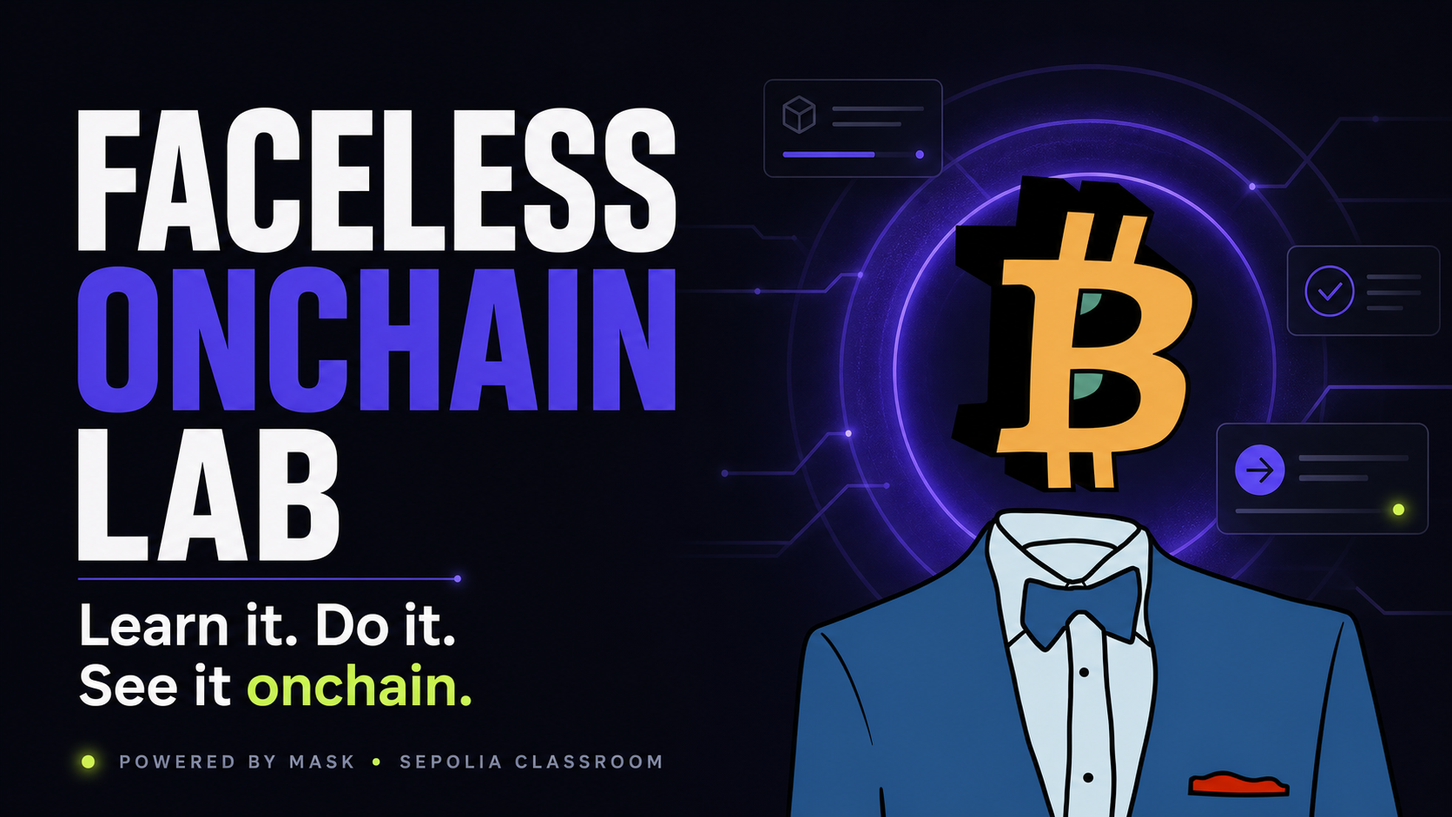
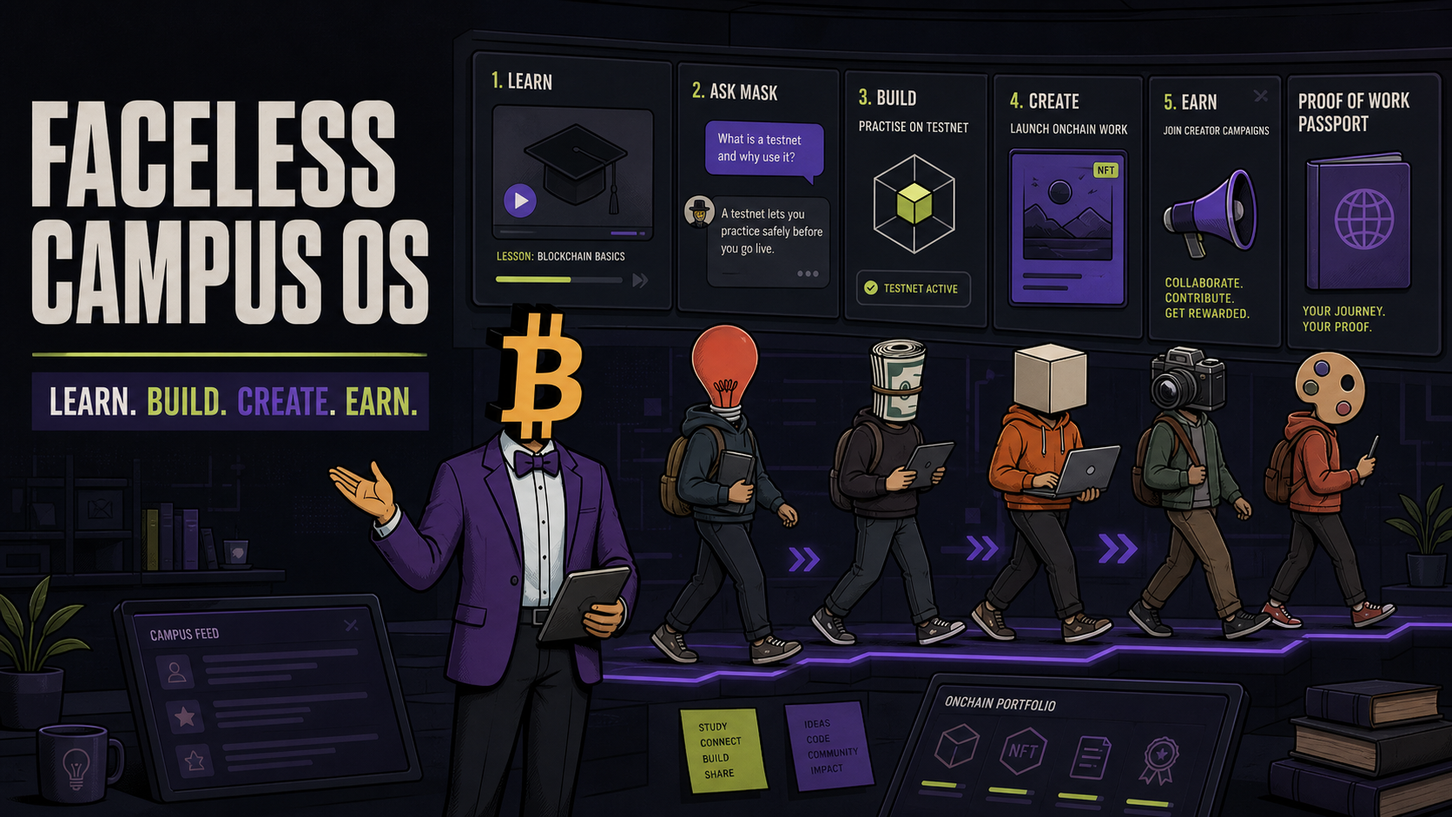
Integrate lessons Mask campaigns and passport

diff --git a/app/OnchainLab.tsx b/app/OnchainLab.tsx
@@ -2,7 +2,7 @@
 
 import { ChangeEvent, useMemo, useState } from "react";
 
-type Tab = "home" | "learn" | "wallet" | "create" | "launchpad" | "drops" | "admin";
+type Tab = "home" | "learn" | "mask" | "wallet" | "create" | "campaigns" | "launchpad" | "passport" | "drops" | "admin";
 
 type Drop = {
   id: number;
@@ -15,20 +15,38 @@ type Drop = {
 
 const navItems: { id: Tab; label: string; mark: string }[] = [
   { id: "home", label: "Home", mark: "⌂" },
-  { id: "learn", label: "Learn with Mask", mark: "M" },
-  { id: "wallet", label: "My wallet", mark: "◇" },
-  { id: "create", label: "Creator studio", mark: "+" },
+  { id: "learn", label: "Learn", mark: "▶" },
+  { id: "mask", label: "Ask Mask", mark: "M" },
+  { id: "create", label: "Build", mark: "+" },
+  { id: "campaigns", label: "Campaigns", mark: "◎" },
   { id: "launchpad", label: "Launchpad", mark: "↗" },
-  { id: "drops", label: "Partner drops", mark: "✦" },
+  { id: "passport", label: "My passport", mark: "◇" },
   { id: "admin", label: "Educator view", mark: "▦" },
 ];
 
-const quests = [
-  { title: "Meet Ethereum", copy: "Understand the network before touching a wallet.", time: "06 min", state: "complete" },
-  { title: "Your first transaction", copy: "Send test ETH and read every part of the receipt.", time: "12 min", state: "active" },
-  { title: "Claim a Faceless head", copy: "Mint your first classroom collectible on Sepolia.", time: "08 min", state: "open" },
-  { title: "Create a team token", copy: "Choose a name, supply and purpose for a test token.", time: "15 min", state: "locked" },
-  { title: "Launch a mini collection", copy: "Turn original student art into a three-piece collection.", time: "18 min", state: "locked" },
+const lessons = [
+  { id: 1, title: "Meet Ethereum", copy: "A shared computer for money, ownership and applications.", time: "0:58", unit: "FOUNDATIONS", state: "complete", action: "Explore the network", video: "https://zwmraqkjvpqnafdfgkiz.supabase.co/storage/v1/object/public/assets/bc1b33b9-875b-4fb0-9c83-9664a979f699-meet-ethereum-v2-faceless-approved.mp4" },
+  { id: 2, title: "Smart contracts", copy: "Rules that execute when their conditions are met.", time: "0:58", unit: "FOUNDATIONS", state: "active", action: "Read a contract", video: "https://zwmraqkjvpqnafdfgkiz.supabase.co/storage/v1/object/public/assets/3df30db4-89ad-4dd7-b34e-6ee44b79e923-ethereum-smart-contracts-v5-faceless-approved.mp4" },
+  { id: 3, title: "Tokenising a watch", copy: "How rules and ownership shares can move onchain.", time: "1:01", unit: "TOKENISATION", state: "open", action: "Create asset shares", video: "https://zwmraqkjvpqnafdfgkiz.supabase.co/storage/v1/object/public/assets/8cc08734-a79f-4930-b5d3-cb83c38125a1-ethereum-rwa-watch-v6-faceless-approved.mp4" },
+  { id: 4, title: "Tokenising a building", copy: "A hypothetical look at rights, rent and smaller shares.", time: "1:20", unit: "TOKENISATION", state: "open", action: "Model a building", video: "https://zwmraqkjvpqnafdfgkiz.supabase.co/storage/v1/object/public/assets/e37d1f22-ddaa-460f-910e-e87193a6b4b7-ethereum-rwa-building-v2-faceless-approved.mp4" },
+  { id: 5, title: "Transaction confirmation", copy: "Follow an Ethereum payment from wallet to confirmation.", time: "1:04", unit: "NETWORK", state: "open", action: "Send test ETH", video: "https://zwmraqkjvpqnafdfgkiz.supabase.co/storage/v1/object/public/assets/5554e138-d284-4fa4-8330-4a1aef84533a-ethereum-tx-confirmation-v1-faceless-approved.mp4" },
+  { id: 6, title: "Validators and Proof of Stake", copy: "Who builds blocks, who checks them and why honesty matters.", time: "0:43", unit: "NETWORK", state: "open", action: "Inspect a validator", video: "https://zwmraqkjvpqnafdfgkiz.supabase.co/storage/v1/object/public/assets/2cb946d3-37b0-4d7b-a6fa-4e0d292a629c-ethereum-validators-pos-v1-faceless-approved.mp4" },
+  { id: 7, title: "Ethereum gas", copy: "Why network work has a fee and why that fee changes.", time: "0:45", unit: "NETWORK", state: "open", action: "Compare gas", video: "https://zwmraqkjvpqnafdfgkiz.supabase.co/storage/v1/object/public/assets/eb6e5f6a-24b4-41d7-8eec-35a357810e96-ethereum-gas-v3-faceless-approved.mp4" },
+  { id: 8, title: "Ethereum supply", copy: "Validator rewards add ETH while base-fee burning removes it.", time: "0:49", unit: "NETWORK", state: "open", action: "View supply", video: "https://zwmraqkjvpqnafdfgkiz.supabase.co/storage/v1/object/public/assets/0edb1abc-9984-4d8e-8c51-bb9be3f11281-ethereum-supply-v2-faceless-approved.mp4" },
+  { id: 9, title: "What is an NFT?", copy: "A unique token that can act as a digital certificate.", time: "0:54", unit: "NFTS", state: "open", action: "Claim your head", video: "https://zwmraqkjvpqnafdfgkiz.supabase.co/storage/v1/object/public/assets/314cb8a5-e80f-483c-88df-b539da820885-ethereum-nft-basics-v3-faceless-approved.mp4" },
+  { id: 10, title: "Art and provenance", copy: "See the issuer, current owner and transfer history.", time: "0:52", unit: "NFTS", state: "open", action: "Mint original art", video: "https://zwmraqkjvpqnafdfgkiz.supabase.co/storage/v1/object/public/assets/caf33a70-a613-44ec-b0c1-c2e8ef8b7e9f-ethereum-nft-art-provenance-v2-faceless-approved.mp4" },
+  { id: 11, title: "A car's digital certificate", copy: "Link official records to a vehicle's ownership history.", time: "0:54", unit: "NFTS", state: "open", action: "View certificate", video: "https://zwmraqkjvpqnafdfgkiz.supabase.co/storage/v1/object/public/assets/8ab52189-adbe-4a34-9373-6a81de53169a-ethereum-nft-car-certificate-v4-faceless-approved.mp4" },
+  { id: 12, title: "Product authenticity", copy: "How official issuers and secure tags can help prove origin.", time: "0:58", unit: "NFTS", state: "open", action: "Verify a product", video: "https://zwmraqkjvpqnafdfgkiz.supabase.co/storage/v1/object/public/assets/48ed2355-cce5-4836-a3d0-471f5551361d-ethereum-nft-product-authenticity-v1-faceless-approved.mp4" },
+  { id: 13, title: "Borrow without selling ETH", copy: "Understand collateral, interest and liquidation risk.", time: "0:59", unit: "DEFI", state: "open", action: "Simulate a loan", video: "https://zwmraqkjvpqnafdfgkiz.supabase.co/storage/v1/object/public/assets/3ff1e0a9-a6d2-4699-80d3-c7005c265227-ethereum-defi-borrow-without-selling-v1-faceless-approved.mp4" },
+  { id: 14, title: "Bank vs smart contract", copy: "Compare traditional finance routes with published DeFi rules.", time: "1:00", unit: "DEFI", state: "open", action: "Compare the routes", video: "https://zwmraqkjvpqnafdfgkiz.supabase.co/storage/v1/object/public/assets/6cc53850-b5d3-4950-83a7-c0801475df67-ethereum-defi-bank-vs-contract-v1-faceless-approved.mp4" },
+  { id: 15, title: "Token swaps and liquidity pools", copy: "How shared pools let a wallet exchange one token for another.", time: "1:06", unit: "DEFI", state: "open", action: "Try a test swap", video: "https://zwmraqkjvpqnafdfgkiz.supabase.co/storage/v1/object/public/assets/9913f480-3109-4b59-a1c1-e777308856f9-ethereum-defi-token-swap-v1-faceless-approved.mp4" },
+];
+
+const campaigns = [
+  { id: 1, brand: "Sticksy", title: "Campus café experience", type: "Creator", category: "Food & Drink", platform: "Instagram", reward: "₹500", places: "18 spots", tone: "coral", brief: "Visit, film the experience and publish an original Reel." },
+  { id: 2, brand: "RKS Builders", title: "Property walkthrough", type: "Faceless Creator", category: "Real Estate", platform: "Instagram", reward: "₹750", places: "8 spots", tone: "blue", brief: "Create a voiceover walkthrough using approved property footage." },
+  { id: 3, brand: "Web3 Partner", title: "Explain one wallet feature", type: "Clipper", category: "Crypto", platform: "YouTube", reward: "$12", places: "24 spots", tone: "violet", brief: "Turn the supplied session into one accurate vertical explainer." },
+  { id: 4, brand: "Campus App", title: "Bring your first five users", type: "User Acquisition", category: "Technology", platform: "Referral", reward: "₹300", places: "40 spots", tone: "green", brief: "Share your tracked link and help five genuine students onboard." },
 ];
 
 const initialDrops: Drop[] = [
@@ -64,6 +82,10 @@ export default function OnchainLab() {
   const [claimedDrops, setClaimedDrops] = useState<number[]>([]);
   const [created, setCreated] = useState(false);
   const [artPreview, setArtPreview] = useState<string | null>(null);
+  const [selectedLesson, setSelectedLesson] = useState(lessons[1]);
+  const [maskQuestion, setMaskQuestion] = useState("");
+  const [maskAnswer, setMaskAnswer] = useState("Ask me anything about the lesson. I’ll use the approved Faceless material and point you to the next activity.");
+  const [claimedCampaigns, setClaimedCampaigns] = useState<number[]>([]);
 
   const wallet = "0x71F4...9A2C";
   const completed = 2 + (headClaimed ? 1 : 0);
@@ -116,12 +138,37 @@ export default function OnchainLab() {
     notify("Draft collection created in the Sepolia sandbox");
   }
 
+  function openLesson(lesson: typeof lessons[number]) {
+    setSelectedLesson(lesson);
+    setActive("learn");
+    window.scrollTo({ top: 0, behavior: "smooth" });
+  }
+
+  function askMask(event: React.FormEvent<HTMLFormElement>) {
+    event.preventDefault();
+    const question = maskQuestion.trim();
+    if (!question) return;
+    const lower = question.toLowerCase();
+    let answer = `In “${selectedLesson.title}”, the key idea is: ${selectedLesson.copy} Your safest next step is the ${selectedLesson.action.toLowerCase()} classroom activity on Sepolia.`;
+    if (lower.includes("gas")) answer = "Gas is the network fee paid for Ethereum to process work. Simple transfers generally use less gas than complex smart-contract actions, and the price rises when demand for block space is high. Open Lesson 7 to see the approved explainer.";
+    if (lower.includes("nft")) answer = "An NFT is a unique token that can act as a public digital certificate. It can show the issuer, current owner and transfer history—but it does not stop an image from being copied. Open Lesson 9, then claim your testnet Faceless Head.";
+    if (lower.includes("real") || lower.includes("money") || lower.includes("risk")) answer = "Everything in this classroom flow is marked Sepolia testnet and has no real monetary value. Mask can explain and guide, but you approve every wallet action yourself.";
+    setMaskAnswer(answer);
+    setMaskQuestion("");
+  }
+
+  function claimCampaign(id: number) {
+    if (claimedCampaigns.includes(id)) return notify("This mission is already in your workspace");
+    setClaimedCampaigns((current) => [...current, id]);
+    notify("Campaign claimed — Mask prepared your brief checklist");
+  }
+
   return (
     <main className="app-shell">
       <aside className="sidebar">
         <button className="brand" onClick={() => setActive("home")} aria-label="Faceless Onchain Lab home">
           <span className="brand-glyph"><MaskOrb compact /></span>
-          <span><strong>FACELESS</strong><small>ONCHAIN LAB</small></span>
+          <span><strong>FACELESS</strong><small>CAMPUS OS</small></span>
         </button>
 
         <nav className="main-nav" aria-label="Primary navigation">
@@ -134,9 +181,9 @@ export default function OnchainLab() {
 
         <div className="sidebar-lab-card">
           <div className="tiny-label">CURRENT LAB</div>
-          <strong>Ethereum · Session 01</strong>
+          <strong>Ethereum · 15 lessons</strong>
           <div className="mini-progress"><i style={{ width: `${progress}%` }} /></div>
-          <span>{completed} of 7 quests complete</span>
+          <span>{completed} learning milestones complete</span>
         </div>
 
         <div className="sidebar-profile">
@@ -198,6 +245,11 @@ export default function OnchainLab() {
                 <button onClick={() => setActive("learn")}>Start →</button>
               </section>
 
+              <section className="home-mission card">
+                <div className="section-head"><span><b>LIVE CAMPAIGN</b><small>Matched to your creator mode</small></span><em>₹500</em></div>
+                <div><span className="mission-logo">ST</span><span><b>Campus café experience</b><small>Sticksy · Creator · Instagram</small></span><button onClick={() => setActive("campaigns")}>View mission →</button></div>
+              </section>
+
               <section className="activity-card card">
                 <div className="section-head"><span><b>RECENT ONCHAIN ACTIVITY</b><small>Readable by anyone</small></span><button onClick={() => setActive("wallet")}>View all</button></div>
                 <div className="activity-row"><span className="activity-icon purple">✦</span><span><b>Ethereum Lab Pass</b><small>Minted · 7 min ago</small></span><code>0x8f...21c</code></div>
@@ -216,21 +268,46 @@ export default function OnchainLab() {
           {active === "learn" && (
             <div className="page-stack">
               <section className="page-intro learn-intro">
-                <div><span className="eyebrow">GUIDED BY MASK</span><h2>Ethereum foundations</h2><p>Watch one short lesson, perform one action and inspect the proof.</p></div>
-                <div className="lesson-orb"><MaskOrb compact /><span>Mask online<small>Classroom mode</small></span></div>
+                <div><span className="eyebrow">15 APPROVED VIDEO EXPLAINERS</span><h2>Ethereum foundations</h2><p>Watch a concept, ask Mask about it, then complete the matching activity.</p></div>
+                <button className="lesson-orb" onClick={() => setActive("mask")}><MaskOrb compact /><span>Ask Mask<small>Grounded in this course</small></span></button>
               </section>
-              <div className="quest-list">
-                {quests.map((quest, index) => (
-                  <article key={quest.title} className={`lesson-row ${quest.state}`}>
-                    <span className="lesson-number">{quest.state === "complete" ? "✓" : String(index + 1).padStart(2, "0")}</span>
-                    <div><small>{quest.state === "active" ? "UP NEXT" : quest.state.toUpperCase()}</small><h3>{quest.title}</h3><p>{quest.copy}</p></div>
-                    <span className="lesson-time">{quest.time}</span>
-                    {index === 1 && <button onClick={() => notify("Mask lesson opened in classroom mode")}>Begin</button>}
-                    {index === 2 && <button onClick={claimHead}>{headClaimed ? "Claimed ✓" : "Claim head"}</button>}
-                    {quest.state === "locked" && <span className="lock">LOCKED</span>}
-                  </article>
+              <section className="lesson-player card">
+                <div className="video-frame"><video key={selectedLesson.video} controls preload="metadata" src={selectedLesson.video}>Your browser does not support video playback.</video><span>APPROVED FACELESS LESSON</span></div>
+                <div className="lesson-focus">
+                  <span className="eyebrow">LESSON {String(selectedLesson.id).padStart(2, "0")} · {selectedLesson.unit}</span>
+                  <h3>{selectedLesson.title}</h3>
+                  <p>{selectedLesson.copy}</p>
+                  <div className="lesson-actions"><button className="primary" onClick={() => notify(`${selectedLesson.action} opened in guided mode`)}>{selectedLesson.action} →</button><button className="secondary" onClick={() => setActive("mask")}>Ask Mask</button></div>
+                  <small>Mask answers from the approved course and can bring you back to the exact lesson.</small>
+                </div>
+              </section>
+              <div className="course-head"><div><span className="eyebrow">FULL COURSE</span><h3>15 lessons · 4 modules</h3></div><span>2 complete</span></div>
+              <div className="lesson-library">
+                {lessons.map((lesson) => (
+                  <button key={lesson.id} className={selectedLesson.id === lesson.id ? "library-card active" : "library-card"} onClick={() => openLesson(lesson)}>
+                    <span className="library-number">{lesson.state === "complete" ? "✓" : String(lesson.id).padStart(2, "0")}</span>
+                    <span className="library-copy"><small>{lesson.unit}</small><strong>{lesson.title}</strong><em>{lesson.copy}</em></span>
+                    <span className="library-time">{lesson.time}<b>▶</b></span>
+                  </button>
                 ))}
               </div>
+            </div>
+          )}
+
+          {active === "mask" && (
+            <div className="mask-page">
+              <section className="mask-stage">
+                <div className="mask-stage-copy"><span className="eyebrow">YOUR AI CO-HOST</span><h2>Ask Mask.<br /><em>Then do it.</em></h2><p>Questions are answered from the approved Faceless curriculum, with a lesson and safe next action attached.</p></div>
+                <div className="mask-stage-orb"><div className="signal-ring ring-one" /><div className="signal-ring ring-two" /><MaskOrb /></div>
+              </section>
+              <section className="mask-chat card">
+                <div className="mask-context"><span><b>COURSE CONTEXT</b><small>Ethereum · Lesson {selectedLesson.id}</small></span><button onClick={() => setActive("learn")}>{selectedLesson.title} ↗</button></div>
+                <div className="chat-answer"><MaskOrb compact /><div><small>MASK</small><p>{maskAnswer}</p></div></div>
+                <div className="prompt-chips">{["Why does gas change?", "What makes an NFT unique?", "Is this real money?"].map((prompt) => <button key={prompt} onClick={() => setMaskQuestion(prompt)}>{prompt}</button>)}</div>
+                <form className="mask-form" onSubmit={askMask}><input value={maskQuestion} onChange={(event) => setMaskQuestion(event.target.value)} placeholder="Ask about Ethereum, this lesson or your next activity…" aria-label="Question for Mask" /><button type="submit">Ask Mask →</button></form>
+                <small className="prototype-note">Prototype response mode · Mask does not sign wallet transactions.</small>
+              </section>
+              <section className="mask-tools"><article><span>01</span><b>Understand</b><p>Explain the concept using the lesson you are watching.</p></article><article><span>02</span><b>Create</b><p>Turn the concept into a safe testnet activity.</p></article><article><span>03</span><b>Campaign</b><p>Convert a partner brief into a checklist, hook and script.</p></article></section>
             </div>
           )}
 
@@ -262,6 +339,25 @@ export default function OnchainLab() {
             </div>
           )}
 
+          {active === "campaigns" && (
+            <div className="page-stack">
+              <section className="campaign-hero">
+                <div><span className="eyebrow">FACELESSHUB · NOW INSIDE THE LAB</span><h2>Learn a skill.<br />Use it on a real mission.</h2><p>Choose how you want to participate: appear on camera, create without showing your face, clip supplied content or help acquire genuine users.</p><button className="primary" onClick={() => notify("Mask matched you with two beginner-friendly missions")}>Let Mask match me →</button></div>
+                <div className="campaign-steps"><span><b>1</b> Claim a campaign</span><span><b>2</b> Create and post</span><span><b>3</b> Get verified and paid</span></div>
+              </section>
+              <div className="campaign-toolbar"><div><button className="active">All missions</button><button>Creator</button><button>Faceless</button><button>Clipper</button><button>User acquisition</button></div><label>⌕<input placeholder="Search campaigns or brands…" aria-label="Search campaigns" /></label></div>
+              <div className="campaign-grid">
+                {campaigns.map((campaign) => <article className={`campaign-card ${campaign.tone}`} key={campaign.id}>
+                  <div className="campaign-brand"><span>{campaign.brand.slice(0, 2).toUpperCase()}</span><div><small>{campaign.category} · {campaign.platform}</small><b>{campaign.brand}</b></div><em>LIVE</em></div>
+                  <h3>{campaign.title}</h3><p>{campaign.brief}</p>
+                  <div className="campaign-tags"><span>{campaign.type}</span><span>{campaign.places}</span></div>
+                  <div className="campaign-reward"><span><small>REWARD</small><strong>{campaign.reward}</strong></span><button onClick={() => claimCampaign(campaign.id)}>{claimedCampaigns.includes(campaign.id) ? "In workspace ✓" : "View mission →"}</button></div>
+                </article>)}
+              </div>
+              <section className="campaign-mask card"><MaskOrb compact /><div><span className="eyebrow">MASK CAMPAIGN ASSIST</span><h3>Never face a confusing brief alone.</h3><p>Mask can explain the rules, suggest a hook, build a shot list and check your submission before it reaches the reviewer.</p></div><button onClick={() => setActive("mask")}>Plan with Mask →</button></section>
+            </div>
+          )}
+
           {active === "launchpad" && (
             <div className="page-stack">
               <section className="launch-hero"><div><span className="eyebrow">STUDENT LAUNCHPAD · SEPOLIA</span><h2>Collected in class.<br />Discovered everywhere.</h2><p>Original student work, launched through supervised onchain labs.</p></div><img src="/faceless-cast.png" alt="Faceless character cast" /></section>
@@ -269,6 +365,25 @@ export default function OnchainLab() {
               <div className="market-grid">
                 {marketItems.map((item) => <article className="market-card" key={item.id}><div className="market-image"><img src={item.image} alt={item.title} /><span>{item.tag}</span></div><div className="market-meta"><div><h3>{item.title}</h3><p>by {item.creator}</p></div><span><small>TEST PRICE</small><b>{item.price} Ξ</b></span></div><button onClick={() => notify(`${item.title} added to your testnet collection`)}>Collect on Sepolia</button></article>)}
                 <article className="market-card upcoming"><div><span>＋</span><h3>Your work could be here.</h3><p>Complete the Creator Studio quest to launch.</p><button onClick={() => setActive("create")}>Start creating</button></div></article>
+              </div>
+            </div>
+          )}
+
+          {active === "passport" && (
+            <div className="page-stack">
+              <section className="passport-hero">
+                <div className="passport-identity"><span className="profile-dot large">AK</span><div><span className="eyebrow">FACELESS STUDENT PASSPORT</span><h2>Aanya K.</h2><p>Creator · Builder · Cohort 04</p></div></div>
+                <div className="passport-wallet"><small>CLASSROOM IDENTITY</small><strong>{wallet}</strong><span><i /> Sepolia verified</span></div>
+              </section>
+              <div className="passport-metrics"><article><strong>02</strong><span>Lessons completed</span></article><article><strong>03</strong><span>Onchain actions</span></article><article><strong>{claimedCampaigns.length.toString().padStart(2, "0")}</strong><span>Campaigns joined</span></article><article><strong>{headClaimed ? "03" : "02"}</strong><span>Assets collected</span></article></div>
+              <div className="passport-layout">
+                <section className="card passport-timeline"><div className="section-head"><span><b>PROOF OF PROGRESS</b><small>Learning, building and creating in one record</small></span></div>{[
+                  ["Ethereum foundations", "Completed the introductory lesson and knowledge check", "LEARN"],
+                  ["First classroom wallet", "Created a Sepolia identity for supervised practice", "BUILD"],
+                  ["Ethereum Lab Pass", "Minted a testnet participation credential", "ONCHAIN"],
+                  ["Campus creator profile", "Ready for creator, clipping and acquisition missions", "CREATE"],
+                ].map((entry) => <div className="passport-event" key={entry[0]}><span>{entry[2].slice(0, 1)}</span><div><small>{entry[2]}</small><b>{entry[0]}</b><p>{entry[1]}</p></div><em>VERIFIED</em></div>)}</section>
+                <aside className="passport-side"><section className="card"><span className="eyebrow">SKILL BADGES</span><div className="badge-cloud"><span>Ethereum basics</span><span>Wallet safety</span><span>Content starter</span><span>Testnet explorer</span></div></section><section className="card passport-next"><span className="eyebrow">NEXT MILESTONE</span><h3>Publish your first proof of work.</h3><p>Complete one campaign or launch one original artwork.</p><button onClick={() => setActive("campaigns")}>Find a campaign →</button></section><button className="wallet-link" onClick={() => setActive("wallet")}>Open classroom wallet <span>→</span></button></aside>
               </div>
             </div>
           )}
@@ -296,7 +411,7 @@ export default function OnchainLab() {
         <div className="onboarding-overlay">
           <div className="onboarding-card">
             <div className="onboarding-art"><div className="portal-ring one" /><div className="portal-ring two" /><MaskOrb /><span>SEPOLIA<br />CLASSROOM<br />ACCESS</span></div>
-            <div className="onboarding-copy"><span className="eyebrow">FACELESS ONCHAIN LAB</span><h2>Your first wallet.<br />Your first onchain action.</h2><p>Enter the student demo to see how Google onboarding will create a private classroom profile and a user-controlled testnet wallet.</p><button className="google-button" onClick={enterLab} disabled={loading}><span>G</span>{loading ? "Creating your classroom wallet…" : "Continue with Google"}</button><button className="demo-link" onClick={() => setOnboarded(true)}>Explore without signing in</button><small>Prototype only · No real Google account or blockchain wallet is created yet.</small></div>
+            <div className="onboarding-copy"><span className="eyebrow">FACELESS CAMPUS OS</span><h2>Learn. Build.<br />Create. Earn.</h2><p>One student profile for lessons, Mask guidance, safe testnet practice, creator campaigns and your proof-of-work passport.</p><button className="google-button" onClick={enterLab} disabled={loading}><span>G</span>{loading ? "Preparing your student profile…" : "Continue with Google"}</button><button className="demo-link" onClick={() => setOnboarded(true)}>Explore the student demo</button><small>Prototype only · Google sign-in, wallets, campaign rewards and onchain actions are simulated.</small></div>
           </div>
         </div>
       )}

diff --git a/app/globals.css b/app/globals.css
@@ -161,12 +161,24 @@ button:focus-visible, input:focus-visible, textarea:focus-visible { outline: 3px
 @keyframes toast-in { from { transform: translateY(8px); opacity: 0; } }
 .mobile-nav { display: none; }
 
+.home-mission { padding: 20px; }.home-mission .section-head em { color: var(--violet); font-size: 19px; font-style: normal; font-weight: 900; }.home-mission > div:last-child { display: grid; grid-template-columns: 38px 1fr auto; gap: 11px; align-items: center; margin-top: 18px; }.mission-logo { width: 38px; height: 38px; display: grid; place-items: center; border-radius: 10px; background: #ffe5dc; color: #bd4b2e; font-size: 9px; font-weight: 900; }.home-mission b, .home-mission small { display: block; }.home-mission b { font-size: 10px; }.home-mission small { margin-top: 4px; color: var(--muted); font-size: 8px; }.home-mission button { height: 34px; padding: 0 12px; border: 0; border-radius: 8px; background: var(--ink); color: white; font-size: 8px; font-weight: 800; }
+
+.lesson-orb { border: 0; text-align: left; cursor: pointer; }.lesson-player { display: grid; grid-template-columns: minmax(0, 1.45fr) minmax(280px, .75fr); overflow: hidden; }.video-frame { position: relative; min-height: 360px; display: grid; place-items: center; background: #11121c; }.video-frame video { width: 100%; height: 100%; min-height: 360px; object-fit: contain; background: #0d0e16; }.video-frame > span { position: absolute; top: 14px; left: 14px; padding: 7px 9px; border-radius: 20px; background: rgba(17,18,28,.78); color: white; font-size: 7px; font-weight: 900; letter-spacing: .12em; backdrop-filter: blur(8px); }.lesson-focus { display: flex; flex-direction: column; justify-content: center; padding: 32px; }.lesson-focus h3 { margin: 10px 0; font-size: 27px; letter-spacing: -.04em; }.lesson-focus p { margin: 0; color: var(--muted); font-size: 11px; line-height: 1.7; }.lesson-focus > small { margin-top: 19px; color: #9798a4; font-size: 8px; line-height: 1.5; }.lesson-actions { display: flex; gap: 8px; margin-top: 23px; }.lesson-actions .primary, .lesson-actions .secondary { width: auto; min-width: 116px; }.course-head { display: flex; align-items: flex-end; justify-content: space-between; margin-top: 13px; }.course-head h3 { margin: 6px 0 0; font-size: 20px; }.course-head > span { color: var(--green); font-size: 9px; font-weight: 800; }.lesson-library { display: grid; grid-template-columns: repeat(3, minmax(0, 1fr)); gap: 10px; }.library-card { min-height: 116px; display: grid; grid-template-columns: 32px 1fr auto; gap: 10px; align-items: start; padding: 15px; border: 1px solid var(--line); border-radius: 13px; background: white; color: var(--ink); text-align: left; transition: .2s ease; }.library-card:hover, .library-card.active { border-color: #b9adef; box-shadow: 0 12px 28px rgba(60,44,125,.08); transform: translateY(-1px); }.library-card.active { background: #f8f6ff; }.library-number { width: 29px; height: 29px; display: grid; place-items: center; border-radius: 8px; background: var(--violet-soft); color: var(--violet); font-size: 8px; font-weight: 900; }.library-copy small, .library-copy strong, .library-copy em { display: block; }.library-copy small { margin-bottom: 6px; color: var(--violet); font-size: 7px; font-weight: 900; letter-spacing: .1em; }.library-copy strong { font-size: 10px; }.library-copy em { margin-top: 6px; color: var(--muted); font-size: 8px; font-style: normal; line-height: 1.45; }.library-time { color: var(--muted); font-size: 8px; text-align: right; }.library-time b { display: block; margin-top: 24px; color: var(--violet); font-size: 10px; }
+
+.mask-page { display: grid; gap: 18px; }.mask-stage { min-height: 290px; display: grid; grid-template-columns: 1fr .8fr; align-items: center; overflow: hidden; border-radius: 18px; background: #171824; color: white; }.mask-stage-copy { padding: 40px; }.mask-stage-copy h2 { margin: 10px 0 14px; font-size: clamp(37px, 4vw, 56px); line-height: .96; letter-spacing: -.055em; }.mask-stage-copy h2 em { color: var(--lime); font-style: normal; }.mask-stage-copy p { max-width: 520px; margin: 0; color: #a8a9b5; font-size: 11px; line-height: 1.65; }.mask-stage-orb { position: relative; min-height: 290px; display: grid; place-items: center; }.mask-stage-orb .mask-orb { z-index: 2; }.mask-chat { max-width: 950px; width: 100%; margin: 0 auto; padding: 23px; }.mask-context { display: flex; align-items: center; justify-content: space-between; padding-bottom: 17px; border-bottom: 1px solid var(--line); }.mask-context b, .mask-context small { display: block; }.mask-context b { font-size: 9px; }.mask-context small { margin-top: 4px; color: var(--muted); font-size: 8px; }.mask-context button { border: 0; background: transparent; color: var(--violet); font-size: 9px; font-weight: 800; }.chat-answer { display: grid; grid-template-columns: 48px 1fr; gap: 14px; align-items: start; margin: 24px 0; }.chat-answer .mask-orb { transform: scale(.8); transform-origin: top left; }.chat-answer small { color: var(--violet); font-size: 8px; font-weight: 900; letter-spacing: .1em; }.chat-answer p { max-width: 720px; margin: 7px 0 0; font-size: 13px; line-height: 1.65; }.prompt-chips { display: flex; flex-wrap: wrap; gap: 7px; margin-bottom: 10px; }.prompt-chips button { padding: 8px 10px; border: 1px solid var(--line); border-radius: 20px; background: #fafafd; color: #666878; font-size: 8px; }.mask-form { display: grid; grid-template-columns: 1fr auto; gap: 8px; }.mask-form input { min-height: 48px; padding: 0 15px; border: 1px solid #d7d5df; border-radius: 10px; background: #fbfbfc; color: var(--ink); font-size: 10px; }.mask-form button { padding: 0 18px; border: 0; border-radius: 10px; background: var(--violet); color: white; font-size: 9px; font-weight: 800; }.prototype-note { display: block; margin-top: 10px; color: #a0a1aa; font-size: 7px; }.mask-tools { display: grid; grid-template-columns: repeat(3, 1fr); gap: 12px; }.mask-tools article { padding: 20px; border: 1px solid var(--line); border-radius: 13px; background: white; }.mask-tools article > span { color: var(--violet); font-size: 8px; font-weight: 900; }.mask-tools b { display: block; margin: 12px 0 7px; font-size: 12px; }.mask-tools p { margin: 0; color: var(--muted); font-size: 9px; line-height: 1.5; }
+
+.campaign-hero { min-height: 310px; display: grid; grid-template-columns: 1.15fr .85fr; gap: 40px; align-items: center; padding: 40px; border-radius: 18px; background: linear-gradient(135deg, #1a1b28, #2c2355); color: white; }.campaign-hero h2 { margin: 10px 0 14px; font-size: clamp(38px, 4vw, 55px); line-height: .98; letter-spacing: -.055em; }.campaign-hero p { max-width: 630px; margin: 0 0 23px; color: #b4b2c2; font-size: 11px; line-height: 1.65; }.campaign-steps { display: grid; gap: 9px; }.campaign-steps span { display: flex; align-items: center; gap: 12px; padding: 14px; border: 1px solid rgba(255,255,255,.11); border-radius: 11px; background: rgba(255,255,255,.055); color: #e5e3ef; font-size: 10px; font-weight: 800; }.campaign-steps b { width: 27px; height: 27px; display: grid; place-items: center; border-radius: 8px; background: var(--lime); color: #232418; font-size: 9px; }.campaign-toolbar { display: flex; justify-content: space-between; gap: 18px; align-items: center; }.campaign-toolbar > div { display: flex; flex-wrap: wrap; gap: 6px; }.campaign-toolbar button { min-height: 34px; padding: 0 12px; border: 1px solid var(--line); border-radius: 9px; background: white; color: var(--muted); font-size: 8px; font-weight: 800; }.campaign-toolbar button.active { border-color: var(--ink); background: var(--ink); color: white; }.campaign-toolbar label { min-width: 260px; height: 36px; display: flex; align-items: center; gap: 8px; padding: 0 12px; border: 1px solid var(--line); border-radius: 9px; background: white; color: var(--muted); }.campaign-toolbar input { width: 100%; border: 0; outline: 0; color: var(--ink); font-size: 9px; }.campaign-grid { display: grid; grid-template-columns: repeat(2, minmax(0, 1fr)); gap: 14px; }.campaign-card { padding: 20px; border: 1px solid var(--line); border-top: 3px solid var(--violet); border-radius: 14px; background: white; }.campaign-card.coral { border-top-color: #e46f50; }.campaign-card.blue { border-top-color: #4388d8; }.campaign-card.green { border-top-color: var(--green); }.campaign-brand { display: grid; grid-template-columns: 40px 1fr auto; gap: 10px; align-items: center; }.campaign-brand > span { width: 40px; height: 40px; display: grid; place-items: center; border-radius: 11px; background: var(--violet-soft); color: var(--violet); font-size: 9px; font-weight: 900; }.coral .campaign-brand > span { background: #fff0eb; color: #c04f34; }.blue .campaign-brand > span { background: #eaf4ff; color: #2e71b9; }.green .campaign-brand > span { background: #e7f7ef; color: var(--green); }.campaign-brand small, .campaign-brand b { display: block; }.campaign-brand small { color: var(--muted); font-size: 7px; }.campaign-brand b { margin-top: 4px; font-size: 10px; }.campaign-brand em { padding: 5px 8px; border-radius: 20px; background: #e8f6ef; color: var(--green); font-size: 7px; font-style: normal; font-weight: 900; }.campaign-card h3 { margin: 22px 0 8px; font-size: 19px; }.campaign-card > p { min-height: 42px; margin: 0; color: var(--muted); font-size: 9px; line-height: 1.55; }.campaign-tags { display: flex; gap: 6px; margin-top: 16px; }.campaign-tags span { padding: 6px 8px; border-radius: 6px; background: #f2f2f5; color: #686a78; font-size: 7px; font-weight: 800; }.campaign-reward { display: flex; align-items: flex-end; justify-content: space-between; gap: 14px; margin-top: 19px; padding-top: 16px; border-top: 1px solid var(--line); }.campaign-reward small, .campaign-reward strong { display: block; }.campaign-reward small { color: var(--muted); font-size: 7px; font-weight: 800; }.campaign-reward strong { margin-top: 4px; font-size: 20px; }.campaign-reward button { min-height: 35px; padding: 0 13px; border: 0; border-radius: 8px; background: var(--ink); color: white; font-size: 8px; font-weight: 800; }.campaign-mask { display: grid; grid-template-columns: 60px 1fr auto; gap: 18px; align-items: center; padding: 22px; }.campaign-mask h3 { margin: 5px 0; font-size: 16px; }.campaign-mask p { margin: 0; color: var(--muted); font-size: 9px; }.campaign-mask > button { min-height: 36px; padding: 0 13px; border: 0; border-radius: 8px; background: var(--violet); color: white; font-size: 8px; font-weight: 800; }
+
+.passport-hero { display: flex; justify-content: space-between; align-items: center; gap: 30px; padding: 31px; border-radius: 18px; background: #171824; color: white; }.passport-identity { display: flex; align-items: center; gap: 17px; }.profile-dot.large { width: 62px; height: 62px; font-size: 16px; }.passport-identity h2 { margin: 7px 0 4px; font-size: 30px; }.passport-identity p { margin: 0; color: #999ba8; font-size: 9px; }.passport-wallet { padding-left: 32px; border-left: 1px solid rgba(255,255,255,.12); }.passport-wallet small, .passport-wallet strong, .passport-wallet span { display: block; }.passport-wallet small { color: #898b9a; font-size: 7px; letter-spacing: .12em; }.passport-wallet strong { margin: 8px 0; font-family: var(--font-geist-mono), monospace; font-size: 15px; }.passport-wallet span { color: var(--lime); font-size: 8px; font-weight: 800; }.passport-wallet i { width: 6px; height: 6px; display: inline-block; margin-right: 5px; border-radius: 50%; background: var(--lime); }.passport-metrics { display: grid; grid-template-columns: repeat(4, 1fr); gap: 11px; }.passport-metrics article { padding: 18px; border: 1px solid var(--line); border-radius: 12px; background: white; }.passport-metrics strong, .passport-metrics span { display: block; }.passport-metrics strong { font-size: 25px; }.passport-metrics span { margin-top: 5px; color: var(--muted); font-size: 8px; }.passport-layout { display: grid; grid-template-columns: 1.3fr .7fr; gap: 15px; }.passport-timeline { padding: 20px; }.passport-event { display: grid; grid-template-columns: 34px 1fr auto; gap: 12px; align-items: center; padding: 17px 2px; border-top: 1px solid var(--line); }.passport-event:first-of-type { margin-top: 14px; }.passport-event > span { width: 31px; height: 31px; display: grid; place-items: center; border-radius: 9px; background: var(--violet-soft); color: var(--violet); font-size: 9px; font-weight: 900; }.passport-event small, .passport-event b { display: block; }.passport-event small { color: var(--violet); font-size: 7px; font-weight: 900; letter-spacing: .1em; }.passport-event b { margin-top: 4px; font-size: 10px; }.passport-event p { margin: 4px 0 0; color: var(--muted); font-size: 8px; }.passport-event em { color: var(--green); font-size: 7px; font-style: normal; font-weight: 900; }.passport-side { display: grid; gap: 12px; align-content: start; }.passport-side .card { padding: 20px; }.badge-cloud { display: flex; flex-wrap: wrap; gap: 7px; margin-top: 16px; }.badge-cloud span { padding: 8px 9px; border-radius: 8px; background: var(--violet-soft); color: var(--violet-dark); font-size: 8px; font-weight: 800; }.passport-next { background: #f0edff; }.passport-next h3 { margin: 10px 0 7px; font-size: 18px; }.passport-next p { margin: 0 0 17px; color: var(--muted); font-size: 9px; line-height: 1.5; }.passport-next button { border: 0; background: transparent; color: var(--violet); font-size: 9px; font-weight: 900; }.wallet-link { min-height: 47px; display: flex; align-items: center; justify-content: space-between; padding: 0 16px; border: 1px solid var(--line); border-radius: 11px; background: white; color: var(--ink); font-size: 9px; font-weight: 800; }
+
 @media (max-width: 1100px) {
   .sidebar { width: 210px; }.workspace { width: calc(100% - 210px); margin-left: 210px; }.dashboard-grid { grid-template-columns: 1fr; }.hero-panel, .launch-strip { grid-column: auto; }.mini-market { grid-template-columns: 1fr; }.market-grid { grid-template-columns: repeat(2, 1fr); }.drop-grid { grid-template-columns: repeat(2, 1fr); }.creator-layout { grid-template-columns: 1fr; padding: 10px 0; }.creator-copy { position: static; }.metric-grid { grid-template-columns: repeat(2, 1fr); }
+  .lesson-library { grid-template-columns: repeat(2, minmax(0, 1fr)); }.lesson-player { grid-template-columns: 1fr; }.campaign-hero { grid-template-columns: 1fr; }.passport-layout { grid-template-columns: 1fr; }
 }
 
 @media (max-width: 760px) {
   .sidebar { display: none; }.workspace { width: 100%; margin: 0; }.topbar { height: 67px; padding: 0 16px; }.topbar h1 { font-size: 12px; }.mobile-brand { display: block; margin-bottom: 3px; color: var(--violet); font-size: 7px; font-weight: 900; letter-spacing: .15em; }.network-pill { display: none; }.wallet-pill { height: 32px; padding: 0 9px; font-size: 8px; }.content-area { padding: 18px 14px 90px; }.hero-panel { grid-template-columns: 1fr; }.hero-copy { padding: 32px 25px; }.hero-copy h2 { font-size: 39px; }.hero-visual { min-height: 250px; }.speech-card { right: 15px; bottom: 15px; }.quest-card { grid-template-columns: 47px 1fr; }.quest-card button { grid-column: 2; width: fit-content; }.page-intro, .admin-banner, .wallet-hero { align-items: flex-start; flex-direction: column; }.lesson-row { grid-template-columns: 43px 1fr auto; }.lesson-time { display: none; }.lesson-row > button, .lock { grid-column: 3; }.asset-layout { grid-template-columns: 1fr; }.asset-grid { grid-template-columns: 1fr 1fr; }.asset-tile img { height: 145px; }.wallet-balance { width: 100%; padding: 17px 0 0; border: 0; border-top: 1px solid rgba(255,255,255,.12); }.launch-hero { grid-template-columns: 1fr; }.launch-hero img { height: 180px; mask-image: linear-gradient(180deg, transparent, #000 28%); }.market-toolbar { overflow-x: auto; gap: 10px; }.market-toolbar > div { flex-shrink: 0; }.market-grid { grid-template-columns: 1fr 1fr; gap: 10px; }.market-image { height: 190px; }.drop-grid { grid-template-columns: 1fr; }.metric-grid { grid-template-columns: 1fr 1fr; }.admin-table { overflow: hidden; }.table-head { display: none; }.table-row { grid-template-columns: 1fr 1fr; gap: 10px; padding: 13px 4px; }.table-row span::before { content: attr(data-label); display: block; margin-bottom: 4px; color: var(--muted); font-size: 7px; font-weight: 800; }.onboarding-card { grid-template-columns: 1fr; max-height: 90vh; overflow-y: auto; }.onboarding-art { min-height: 240px; }.onboarding-copy { padding: 30px 25px; }.onboarding-copy h2 { font-size: 35px; }.mobile-nav { position: fixed; inset: auto 0 0; z-index: 30; height: 66px; display: grid; grid-template-columns: repeat(5, 1fr); border-top: 1px solid var(--line); background: rgba(255,255,255,.95); backdrop-filter: blur(12px); }.mobile-nav button { display: grid; place-items: center; align-content: center; gap: 4px; border: 0; background: transparent; color: #8a8b98; font-size: 7px; font-weight: 800; }.mobile-nav button span { font-size: 14px; }.mobile-nav button.active { color: var(--violet); }.toast { right: 14px; bottom: 80px; left: 14px; justify-content: center; }
+  .video-frame, .video-frame video { min-height: 230px; }.lesson-focus { padding: 24px; }.lesson-library, .campaign-grid, .mask-tools { grid-template-columns: 1fr; }.mask-stage { grid-template-columns: 1fr; }.mask-stage-copy { padding: 31px 25px; }.mask-stage-orb { min-height: 220px; }.campaign-hero { padding: 30px 24px; }.campaign-toolbar { align-items: stretch; flex-direction: column; }.campaign-toolbar > div { flex-wrap: nowrap; overflow-x: auto; }.campaign-toolbar label { min-width: 0; }.campaign-mask { grid-template-columns: 50px 1fr; }.campaign-mask > button { grid-column: 2; width: fit-content; }.passport-hero { align-items: flex-start; flex-direction: column; }.passport-wallet { width: 100%; padding: 19px 0 0; border: 0; border-top: 1px solid rgba(255,255,255,.12); }.passport-metrics { grid-template-columns: 1fr 1fr; }.passport-event { grid-template-columns: 34px 1fr; }.passport-event em { grid-column: 2; }.mask-form { grid-template-columns: 1fr; }.mask-form button { min-height: 44px; }.home-mission > div:last-child { grid-template-columns: 38px 1fr; }.home-mission button { grid-column: 2; width: fit-content; }
 }
 
 @media (max-width: 460px) {

diff --git a/app/layout.tsx b/app/layout.tsx
@@ -18,8 +18,8 @@ export async function generateMetadata(): Promise<Metadata> {
   const host = requestHeaders.get("x-forwarded-host") ?? requestHeaders.get("host") ?? "localhost:3000";
   const protocol = requestHeaders.get("x-forwarded-proto") ?? (host.startsWith("localhost") ? "http" : "https");
   const origin = `${protocol}://${host}`;
-  const title = "Faceless Onchain Lab";
-  const description = "Learn blockchain concepts with Mask, then perform the matching action on testnet.";
+  const title = "Faceless Campus OS";
+  const description = "Learn with Mask, practise onchain, build original work and join creator campaigns from one student profile.";
 
   return {
     title,
@@ -29,7 +29,7 @@ export async function generateMetadata(): Promise<Metadata> {
       title,
       description,
       type: "website",
-      images: [{ url: `${origin}/og.png`, width: 1680, height: 945, alt: "Faceless Onchain Lab — Learn it. Do it. See it onchain." }],
+      images: [{ url: `${origin}/og.png`, width: 1680, height: 945, alt: "Faceless Campus OS — Learn, build, create and earn." }],
     },
     twitter: {
       card: "summary_large_image",
